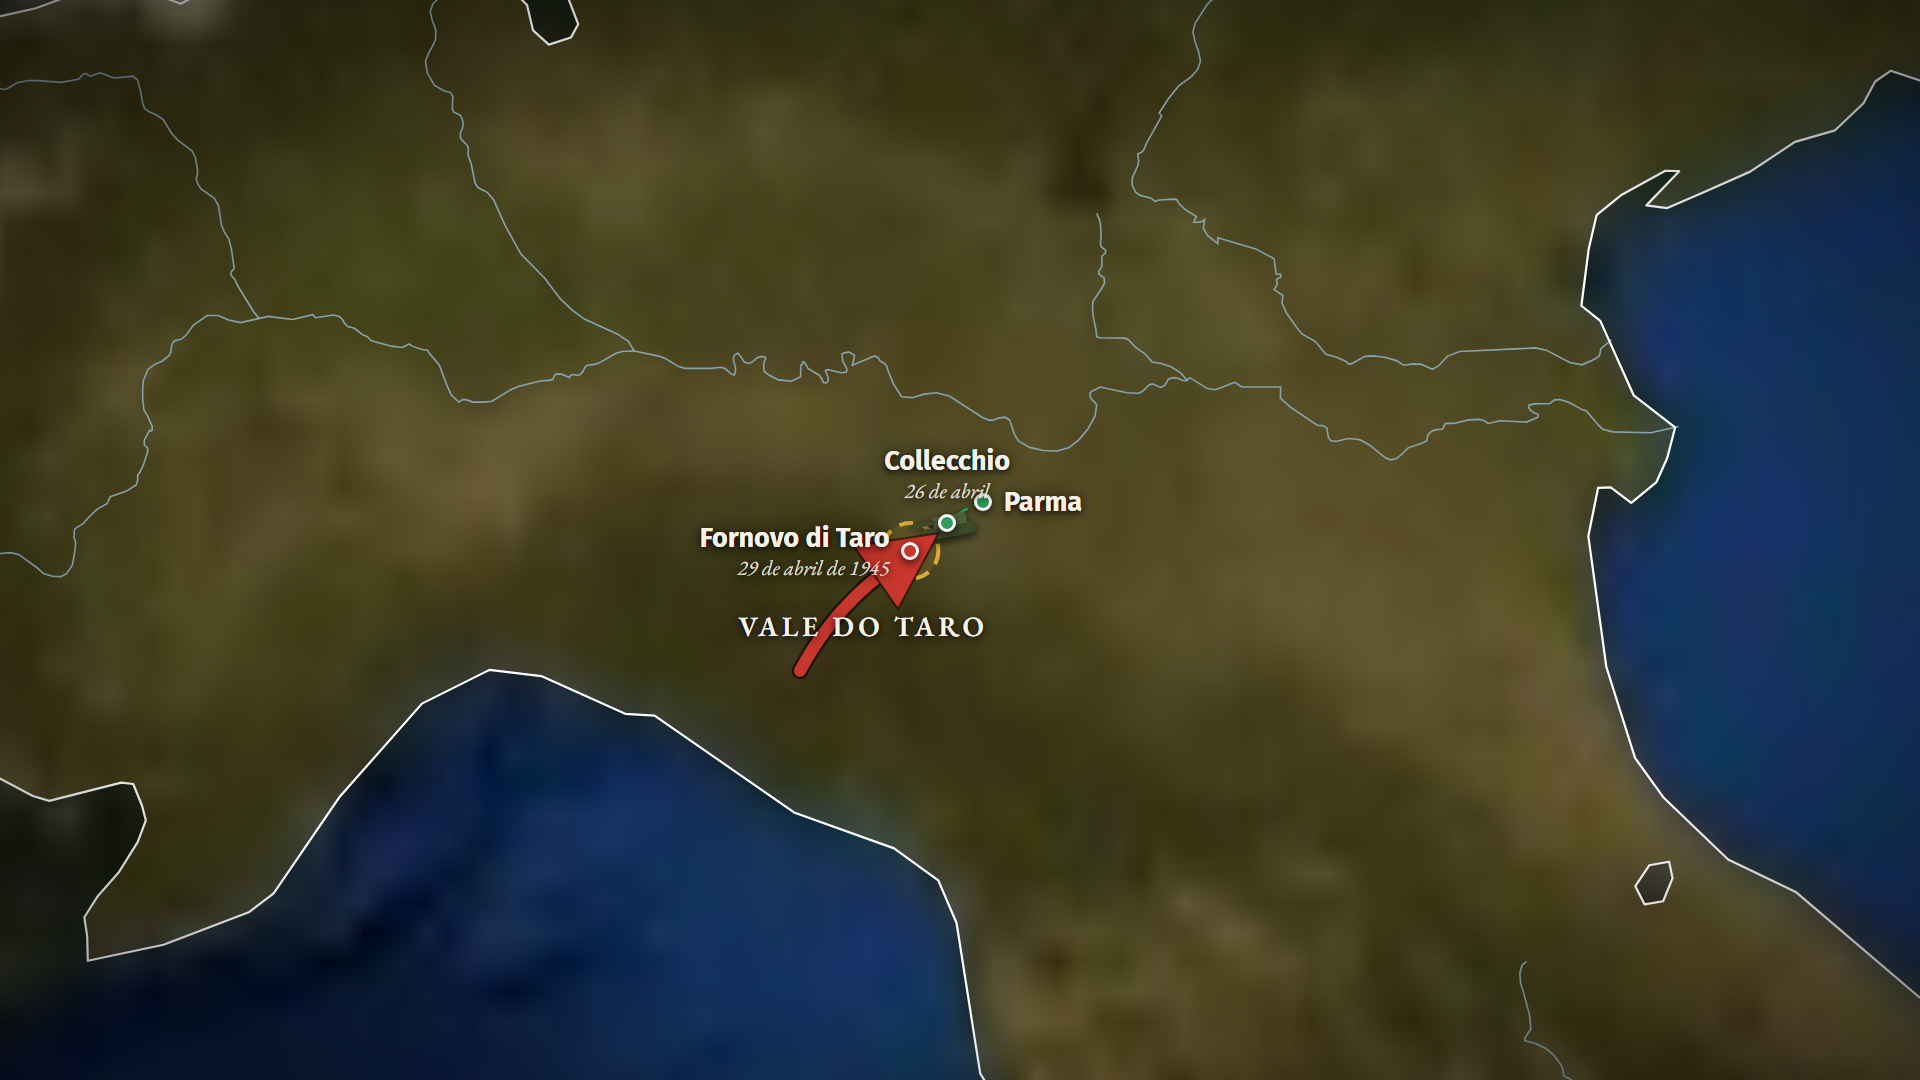
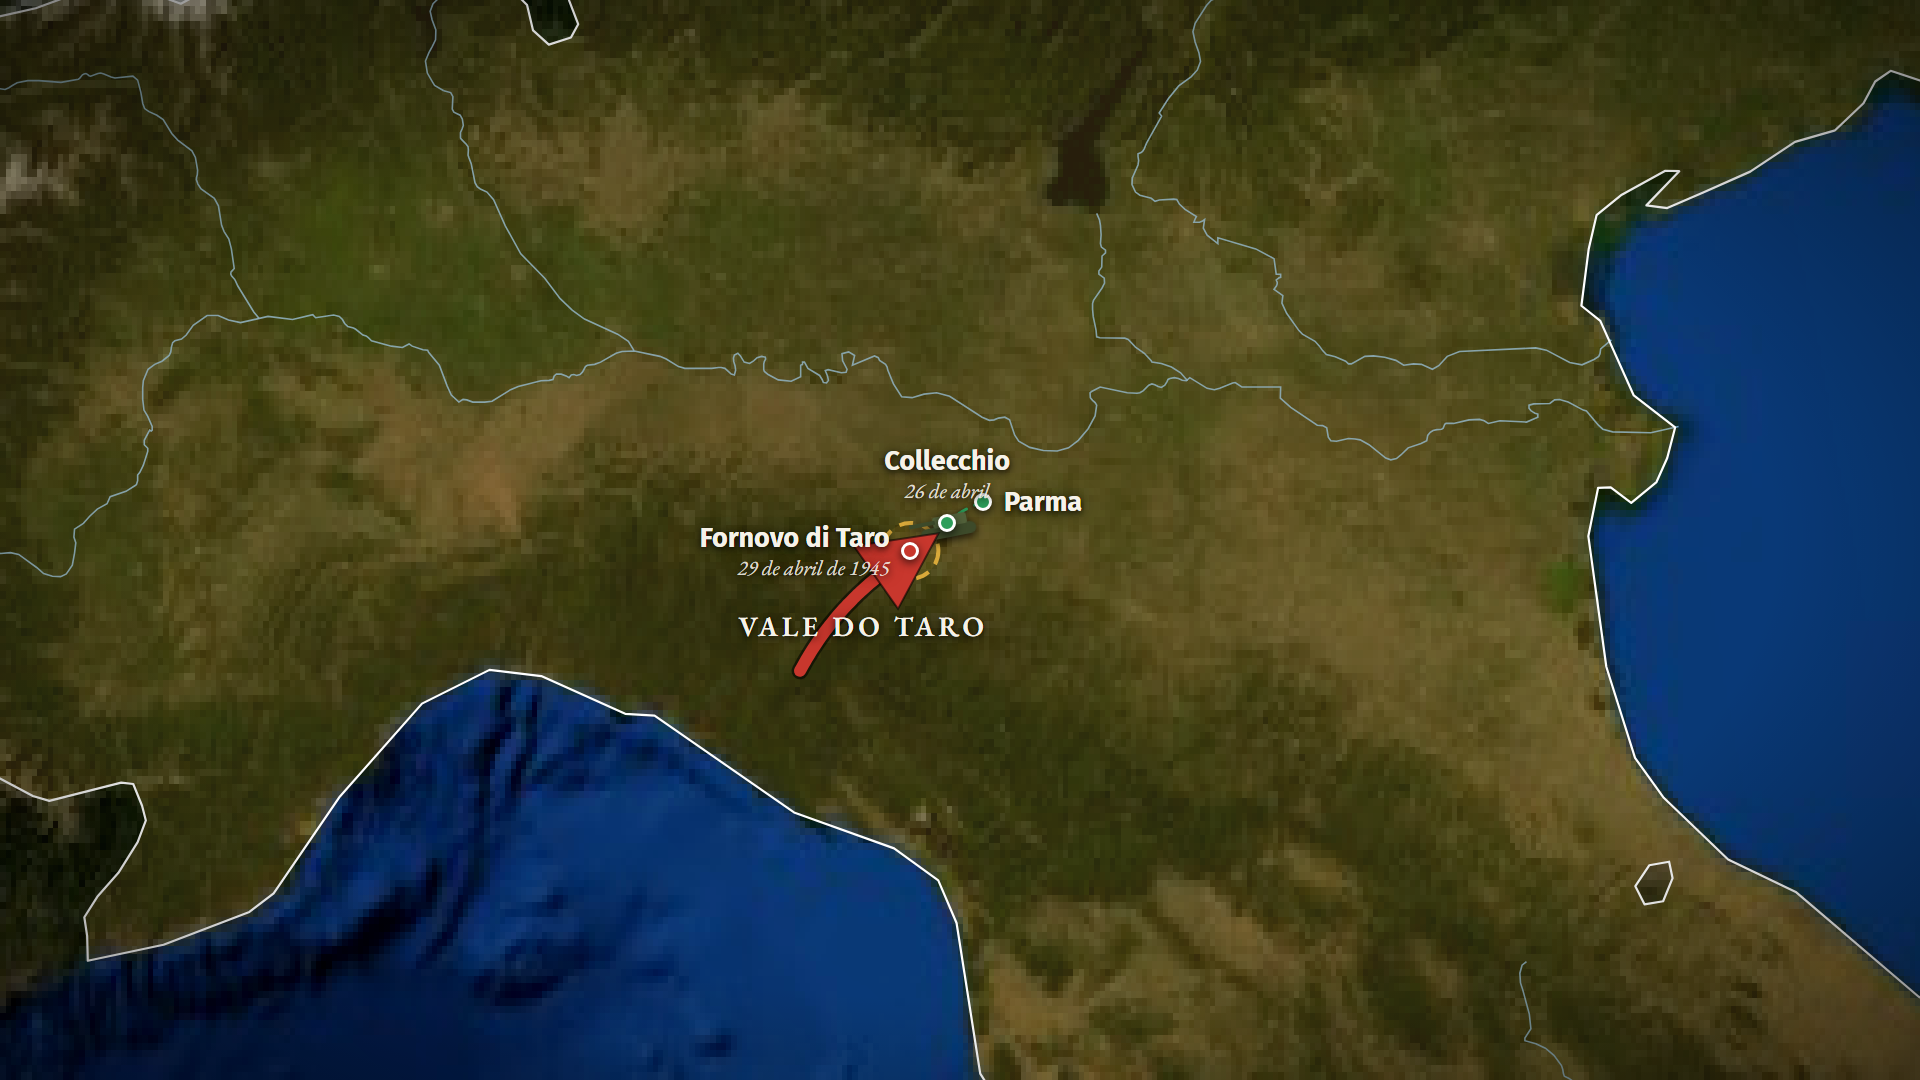
Mapa HD testado no zoom de vale (0.1.1)
A demo usa terra-hd.jpg na cena do mapa, o instalador sugere --hd e o screenshot do README mostra o resultado.

diff --git a/plugins/documentary-style/skills/documentary-style/templates/doc/demo.ts b/plugins/documentary-style/skills/documentary-style/templates/doc/demo.ts
@@ -48,6 +48,7 @@ export const PLANO_DEMO: Plano = {
               { t: 3.2, lon: 10.4, lat: 44.6, altura: 3.2 },
               { t: 9.4, lon: 10.25, lat: 44.72, altura: 2.4 },
             ],
+            textura: 'doc/mapa/terra-hd.jpg', // zoom de vale: use a textura HD (baixar-mapas --hd)
             escurecer: 0.12,
             rios: { aos: 2.5 },
             paises: [{ iso: 'ITA', cor: COR.ouro, opacidade: 0.18, aos: 0 }],

diff --git a/CHANGELOG.md b/CHANGELOG.md
@@ -1,5 +1,10 @@
 # Changelog
 
+## 0.1.1 (2026-11-17)
+- Testada a textura HD da NASA (21600 px) no zoom do vale do Taro: relevo, rio Pó e Apeninos nítidos em altura ~2,5°.
+- `demo.ts` usa `terra-hd.jpg` na cena do mapa; `instalar.mjs` já sugere `baixar-mapas.mjs --hd`.
+- Screenshot do mapa no README atualizado.
+
 ## 0.1.0 (2026-11-17)
 - Primeira versão.
 - Componentes: Arquivo, FotoMoldura, CartaoDocumento, Legenda, Credito, MapaReal, GloboReal, NumeroGrande,
@@ -8,6 +13,6 @@
 - Testado com stills de todas as cenas do `demo.ts` (Remotion 4.0.540).
 
 ### Limites conhecidos
-- O mapa com a textura padrão (5400 px) fica borrado com altura menor que ~20°. Use `--hd` ou um recorte regional.
+- O mapa com a textura padrão (5400 px) fica borrado com altura menor que ~20°. Use `--hd` (bom até ~2°) ou um recorte regional.
 - O globo reprojeta pixel a pixel, então o render fica mais lento nessas cenas.
 - Ainda não renderizamos com vídeo de arquivo real (só com foto/SVG de exemplo).

diff --git a/plugins/documentary-style/skills/documentary-style/SKILL.md b/plugins/documentary-style/skills/documentary-style/SKILL.md
@@ -87,7 +87,7 @@ npx remotion still src/index.ts MeuVideo out/check/f0300.png --frame=300
 Checklist em cada quadro:
 - texto legível e dentro da área segura (90 px das bordas)
 - o pino ou a seta está no lugar certo do mapa (compare com um mapa de referência)
-- o mapa não está borrado: altura < 20° pede `terra-hd.jpg`, e altura < 4° pede recorte regional
+- o mapa não está borrado: altura < 20° pede `terra-hd.jpg` (testado até ~2,5°, nítido o bastante para vale), e abaixo de ~2° pede recorte regional
 - o crédito aparece em todo arquivo real
 - a legenda de lugar tem LOCAL e data
 
